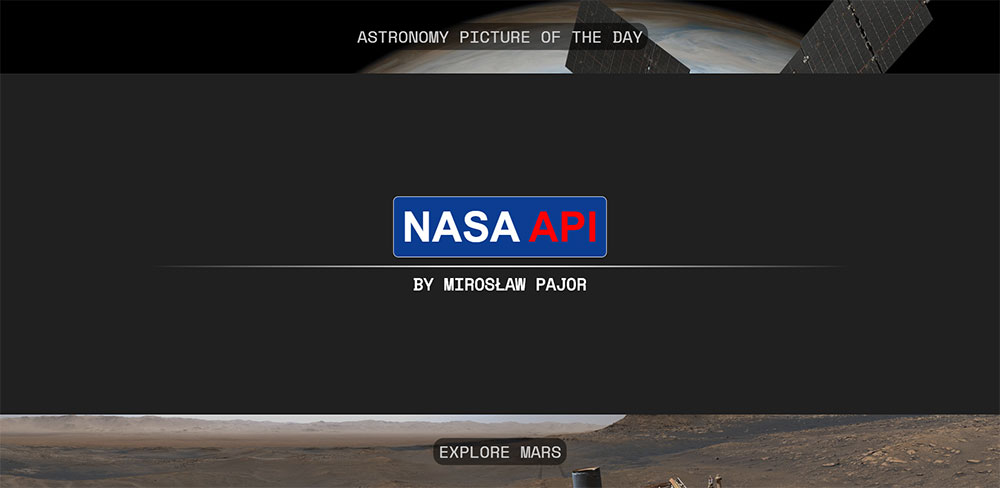
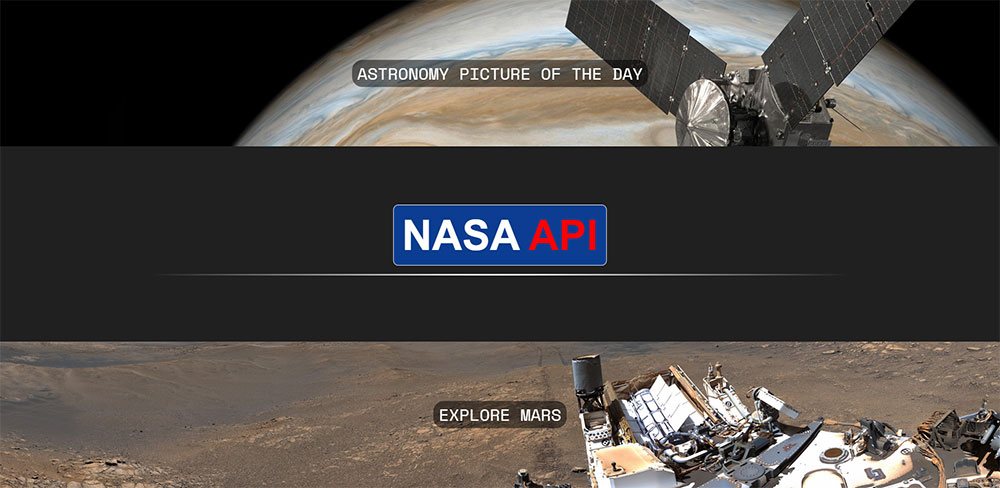
some_fixes

diff --git a/src/scss/elements/_projects.scss b/src/scss/elements/_projects.scss
@@ -1,5 +1,5 @@
 .projects {
-  height: 100vh;
+  min-height: 100vh;
 
   a {
     text-decoration: none;
@@ -16,7 +16,7 @@
     text-align: center;
   }
   .swipe-nav {
-    height: 10vh;
+    min-height: 10vh;
     background-color: $bg-color2;
     display: flex;
     align-items: center;
@@ -25,9 +25,9 @@
   .p1 {
     display: flex;
     flex-direction: column;
-    justify-content: space-evenly;
+    justify-content: center;
     align-items: center;
-    height: 90vh;
+    min-height: 90vh;
     background-color: $bg-color1;
 
     h1 {
@@ -38,12 +38,15 @@
       font-size: 1.5rem;
       background-color: $bg-color2;
       padding: 0.5rem;
+      margin-bottom: 2rem;
     }
 
     img {
       max-width: 80%;
       width: 50vw;
       border: 1px solid $bg-color2;
+      margin-bottom: 2rem;
+
     }
 
     .project-src {

diff --git a/src/scss/elements/_contact.scss b/src/scss/elements/_contact.scss
@@ -1,13 +1,11 @@
 .contact {
   display: flex;
   flex-direction: column;
-  //justify-content: space-evenly;
   font-size: 1rem;
   min-height: 100vh;
-  margin-left: 3rem;
 
   .contact-title {
-    padding-top: 3rem;
+    //padding-top: 3rem;
   }
 
   h2 {
@@ -17,7 +15,7 @@
     color: rgb(255, 255, 255);
     position: relative;
     border-bottom: 1px solid rgba(255, 255, 255, 0.5);
-    padding: 1rem 0 1rem 0;
+    padding: 2rem 0 2rem 3rem;
     width: 50vw;
     &::after {
       content: "";
@@ -48,7 +46,6 @@
     display: flex;
     flex-direction: row;
     align-items: center;
-    // padding: 1rem;
   }
 
   span {
@@ -58,6 +55,7 @@
     width: 50vw;
     height: 10vh;
     transition: all 200ms ease;
+    padding-left: 3rem;
     &:hover {
       background-color: rgba(109, 108, 108, 0.2);
       cursor: pointer;

diff --git a/public/index.html b/public/index.html
@@ -3,6 +3,16 @@
 
 <head>
   <meta charset="utf-8" />
+  <!-- Global site tag (gtag.js) - Google Analytics -->
+  <script async src="https://www.googletagmanager.com/gtag/js?id=UA-161721249-2"></script>
+  <script>
+    window.dataLayer = window.dataLayer || [];
+    function gtag() { dataLayer.push(arguments); }
+    gtag('js', new Date());
+
+    gtag('config', 'UA-161721249-2');
+  </script>
+
   <link rel="icon" href="%PUBLIC_URL%/favicon.ico" />
   <meta name="viewport" content="width=device-width, initial-scale=1" />
   <meta name="theme-color" content="#000000" />
